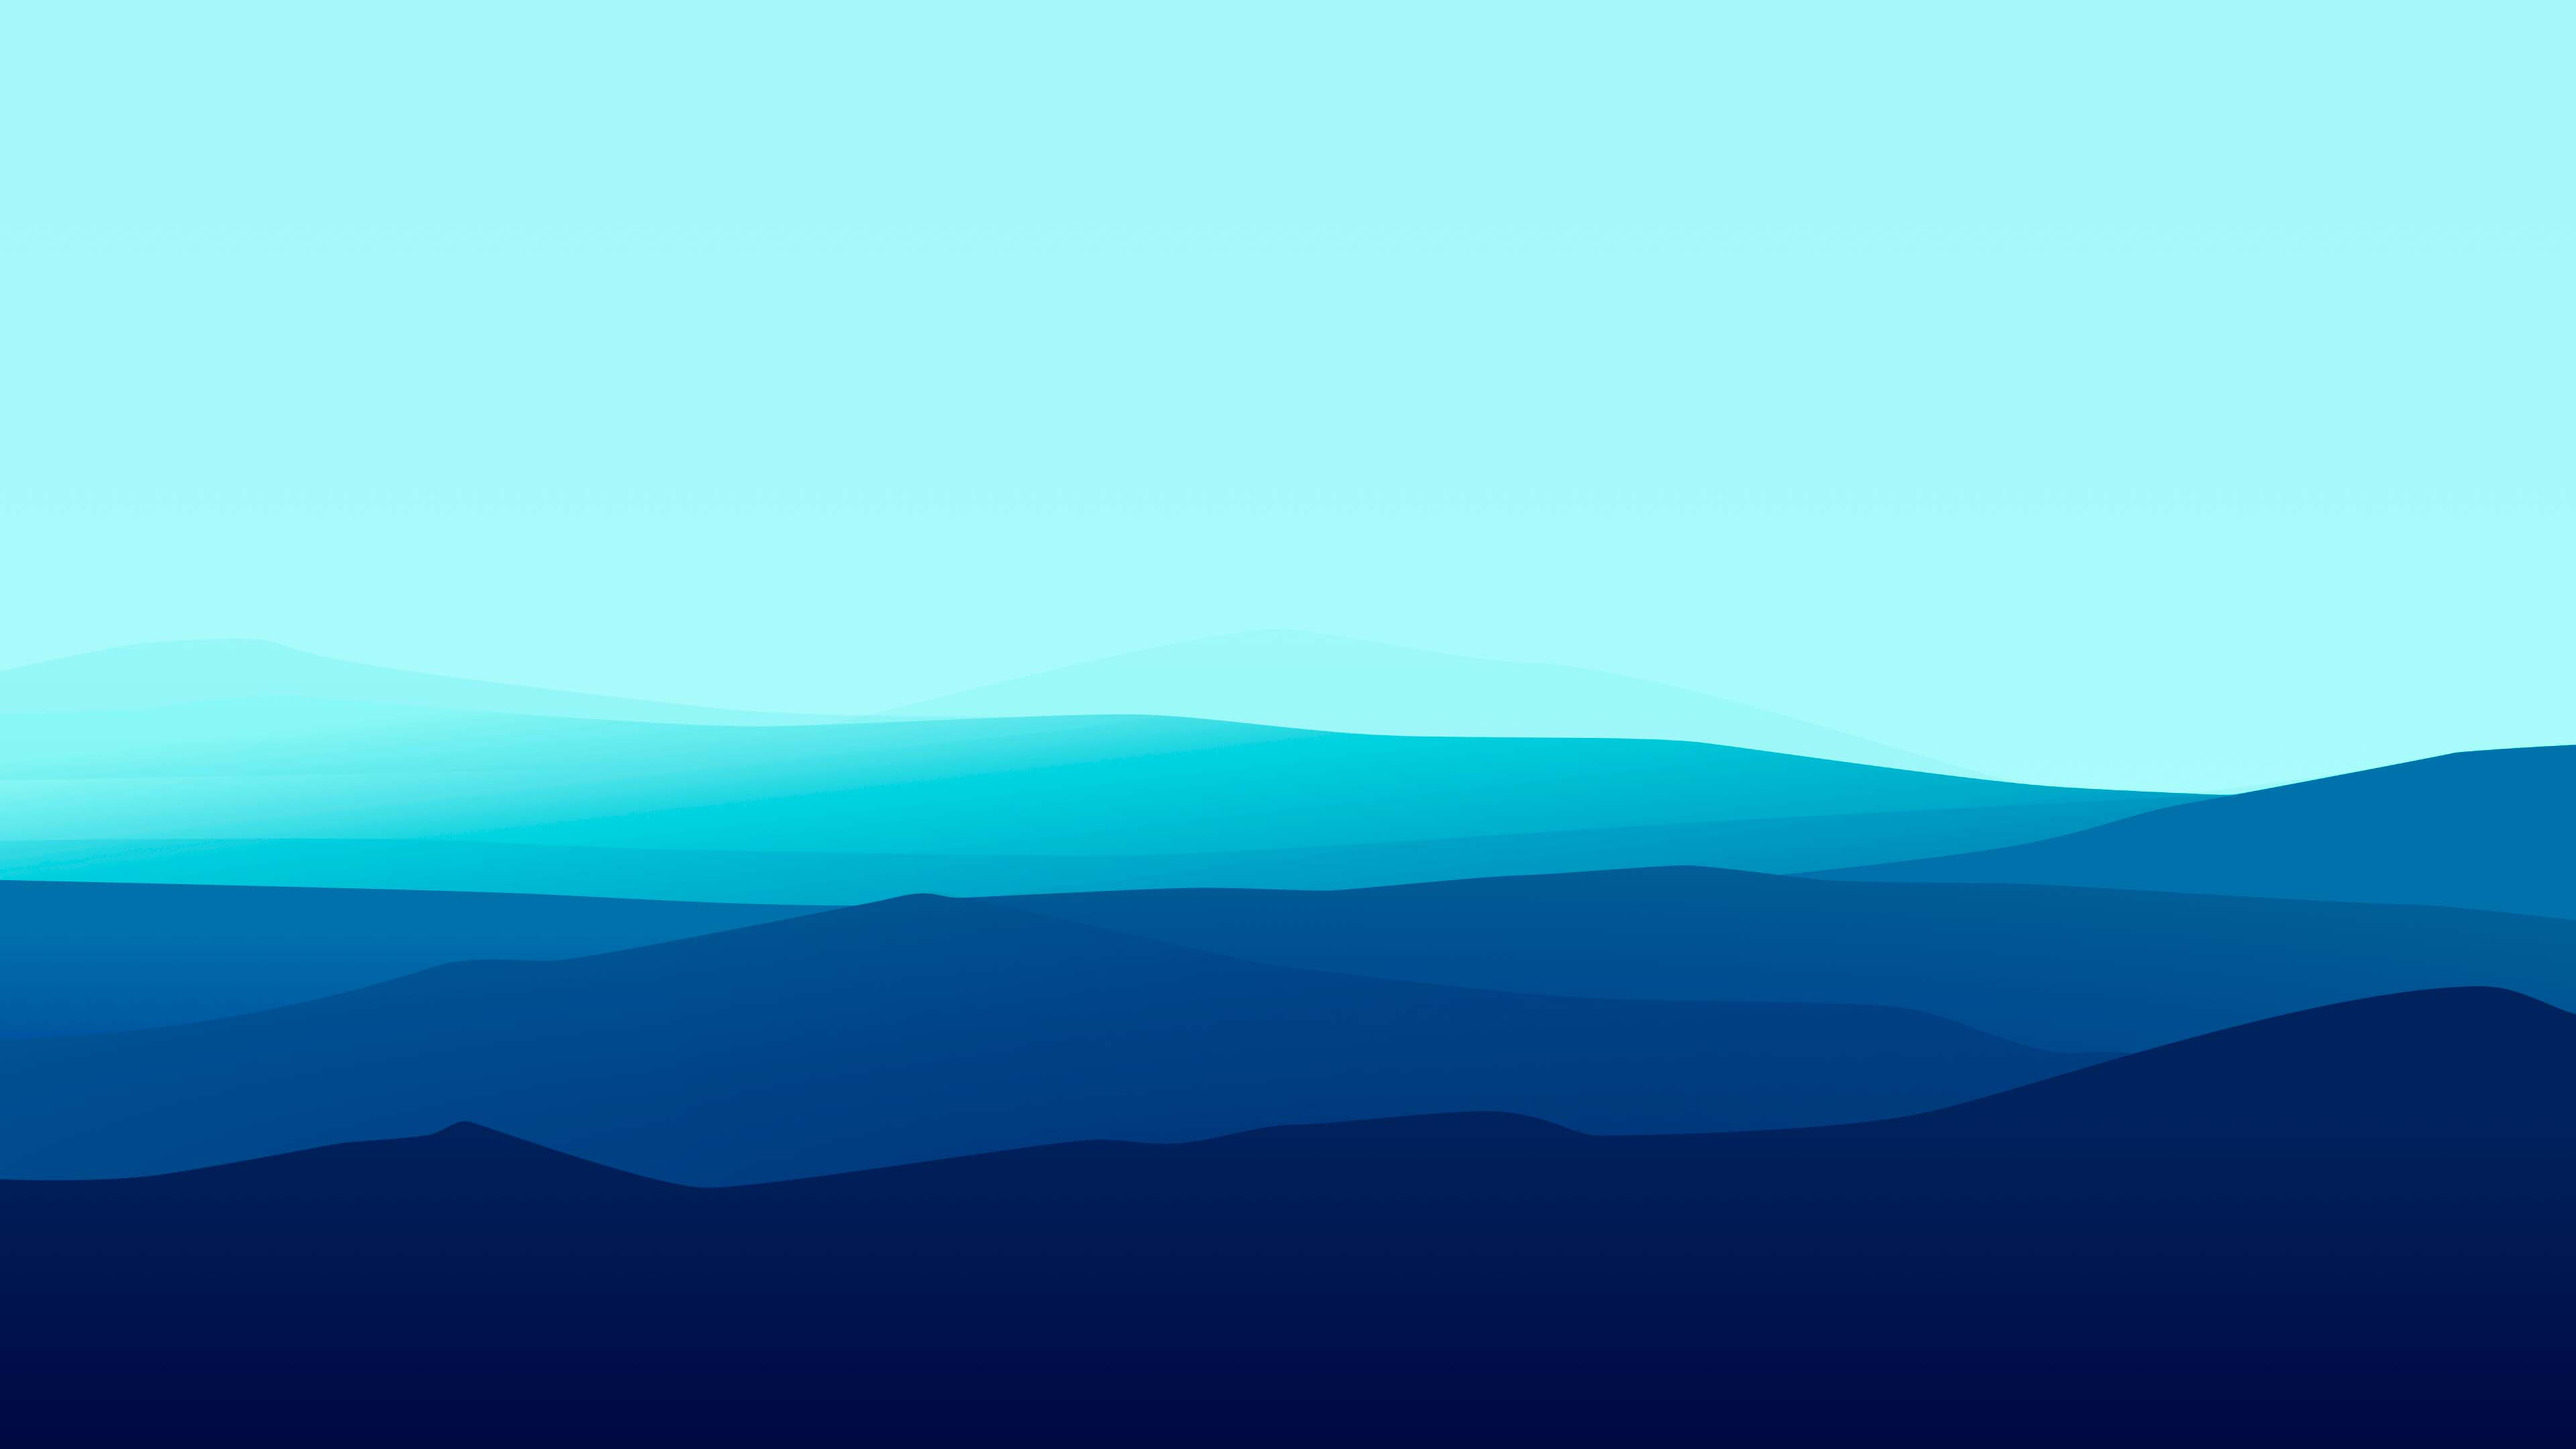
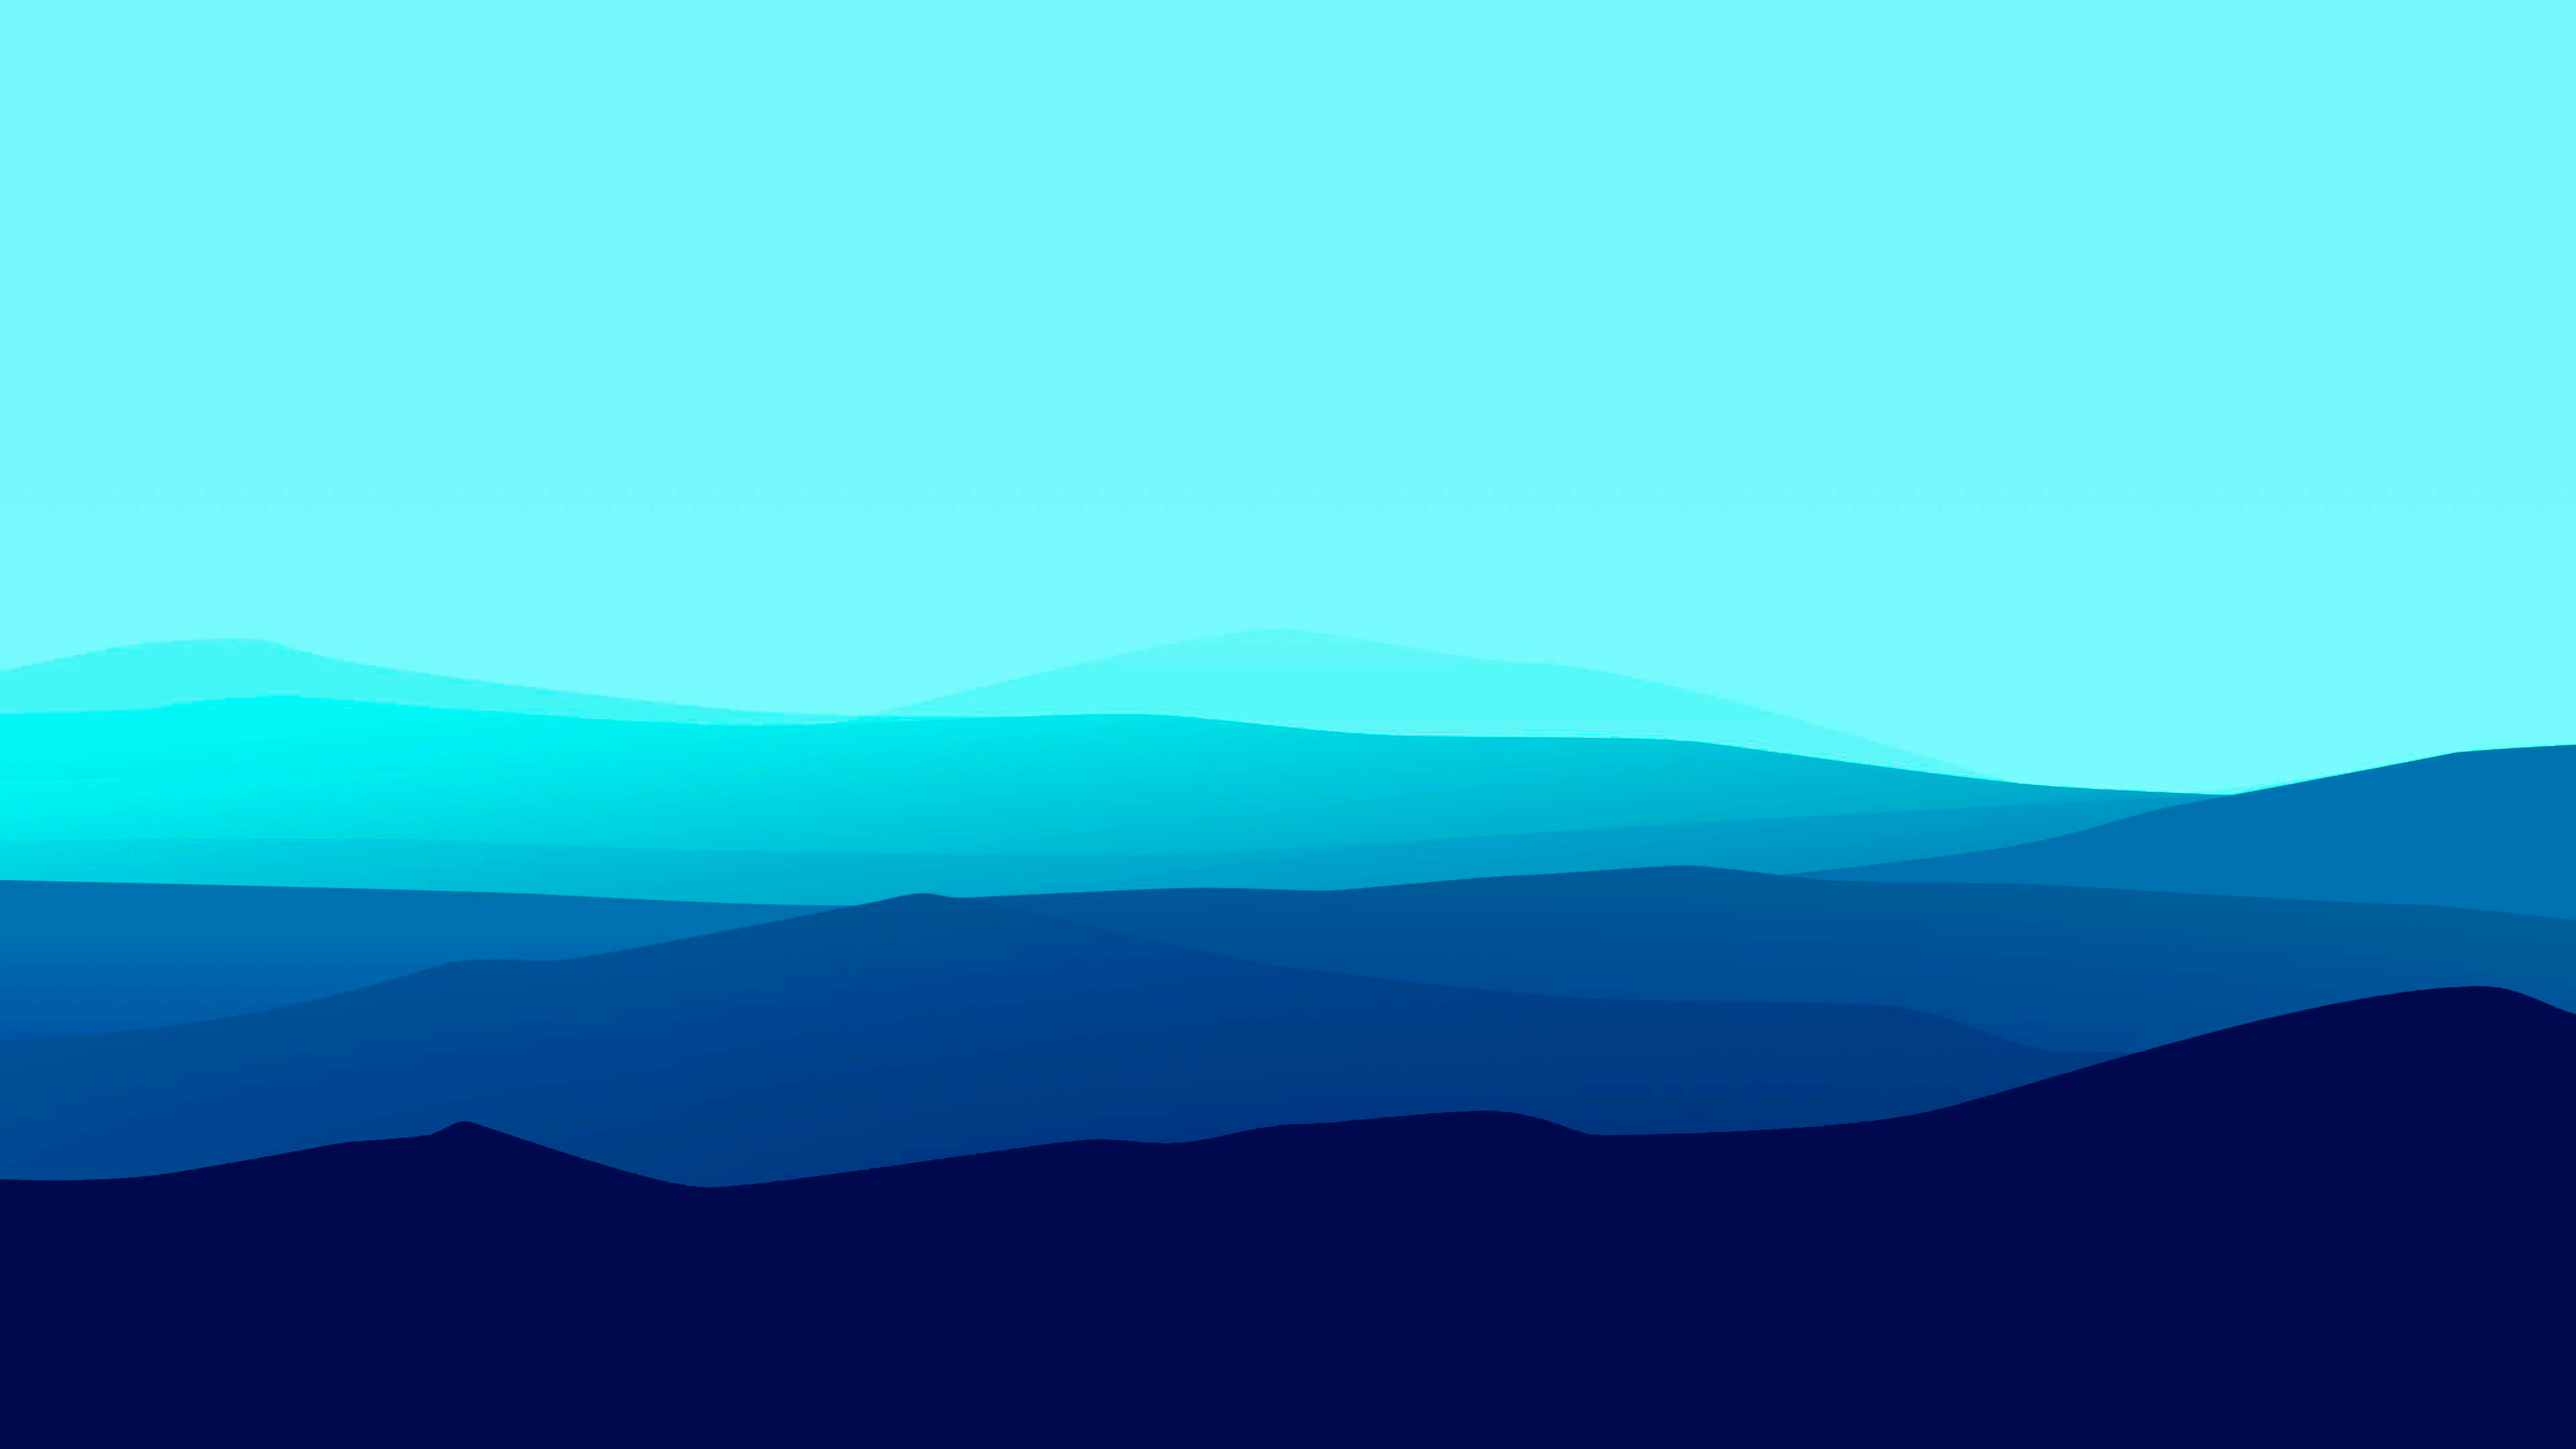
Iniciar Sessio Background

diff --git a/public/styles.css b/public/styles.css
@@ -367,7 +367,7 @@ body{
 }
 
 .titol{
-	background: url('./imgs/fondo5.svg') no-repeat !important;
+	background: url('./imgs/fondo5.jpg') no-repeat !important;
 	background-size: cover !important;
 	background-position: center !important;
 	height: 1050px;
@@ -375,7 +375,8 @@ body{
 }
 
 .segonApartat{
-	background: url('./imgs/backgroundSegonApartat.svg') no-repeat;
+	margin-top: -150px !important;
+	background: url('./imgs/backgroundSegonApartat.jpg') no-repeat;
 	background-size: cover !important;
 	background-position: center !important;
 }
